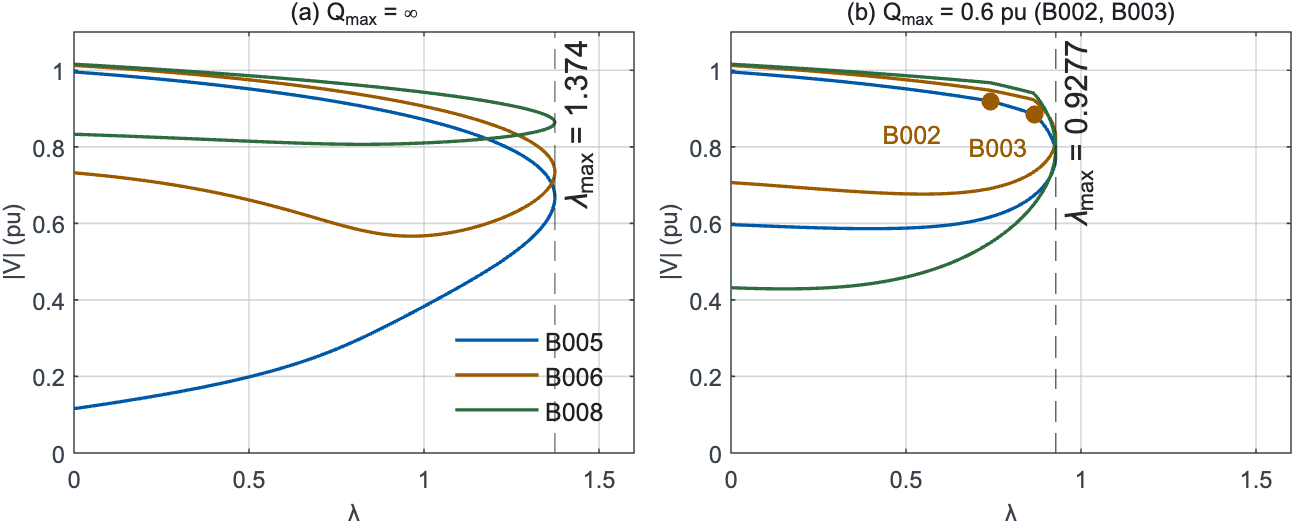
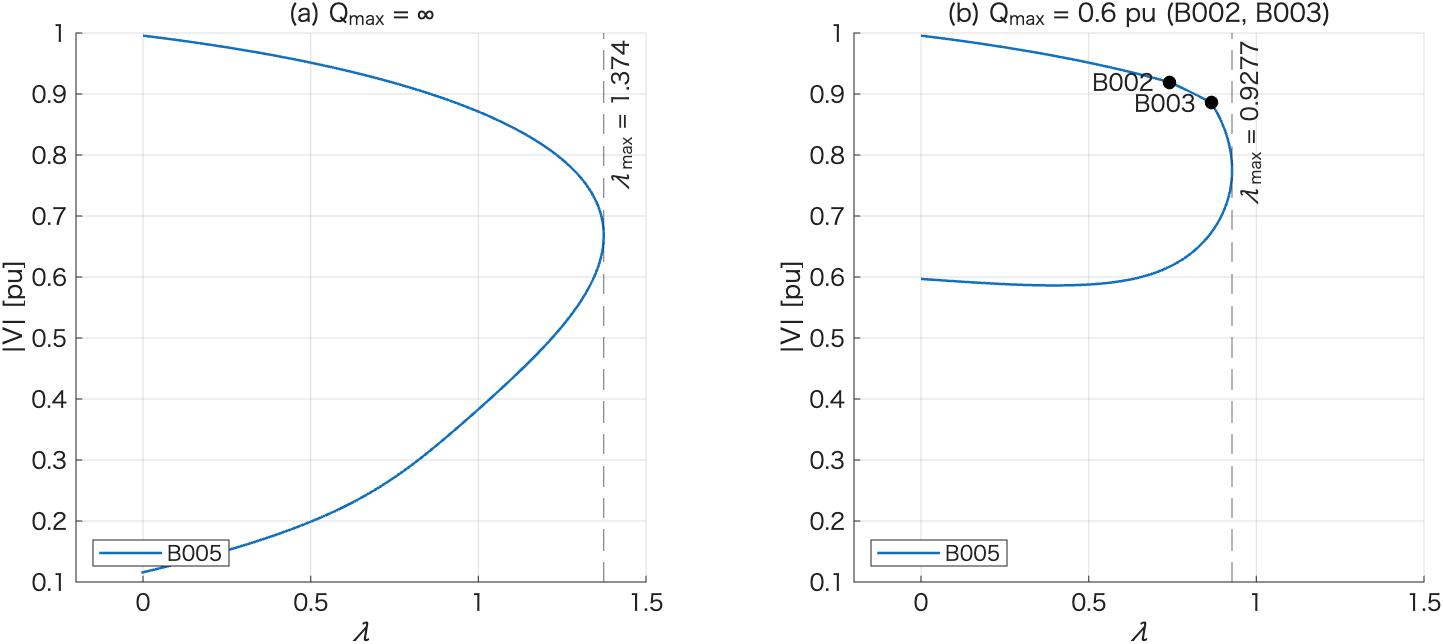
docs: draw only bus B005 in the Part 7 Q-limit PV curves

diff --git a/lecture/part7-continuation-power-flow.html b/lecture/part7-continuation-power-flow.html
@@ -337,16 +337,32 @@ result.plot_pvcurve(Bus="B005");</code></pre>
 net.a_Bus{3}.a_Component{1}.tab_parameter.operation.Qmax = 0.6;
 result_Q = net.calculate_continuation_powerflow(LoadBus=["B005","B006","B008"], Limits="Q");
 result_Q.tab_switch</code></pre>
+          <p lang="en">The figure below puts the PV curve of bus 5 of both results side by side, each drawn by <code>plot_pvcurve(Bus="B005")</code> as in the previous section. The dots at the switches are added with <code>plot</code> and <code>text</code> from <code>result_Q.tab_switch</code>; its column <code>Step</code> is the index of the switch in <code>rv_lambda</code> and <code>cm_Vbus</code>.</p>
+          <p lang="ja">下の図は、2 つの結果の母線 5 の PV カーブを並べたものです。どちらも前の節と同じく <code>plot_pvcurve(Bus="B005")</code> で描きました。切り替わる点の黒丸は、<code>result_Q.tab_switch</code> をもとに <code>plot</code> と <code>text</code> で描き足しています。<code>tab_switch</code> の列 <code>Step</code> は、<code>rv_lambda</code> と <code>cm_Vbus</code> の中でのその点の番号です。</p>
+          <pre class="lec-cmd"><code>tiledlayout(1, 2);
+ax1 = nexttile;
+result.plot_pvcurve(Bus="B005", Parent=ax1);
+title(ax1, "(a) Q_{max} = \infty");
+ax2 = nexttile;
+result_Q.plot_pvcurve(Bus="B005", Parent=ax2);
+title(ax2, "(b) Q_{max} = 0.6 pu (B002, B003)");
+sw = result_Q.tab_switch;
+V5 = abs(result_Q.cm_Vbus(result_Q.sv_bus == "B005", sw.Step));
+hold(ax2, "on");
+plot(ax2, sw.lambda, V5, "ko", MarkerFaceColor="k", HandleVisibility="off");
+text(ax2, sw.lambda, V5, sw.Bus + "  ", HorizontalAlignment="right");
+linkaxes([ax1 ax2]);
+xlim(ax1, [-0.2 1.5]);</code></pre>
 
           <figure class="lec-figure is-scroll" style="--lec-min-w: 560px;">
             <div class="lec-scroll">
-              <img src="../images/lecture/part7/q-limits.png" alt="PV curves of the load buses of the IEEE 9-bus system drawn by GUILDA's plot_pvcurve, (a) without and (b) with reactive power limits of 0.6 pu on the generators of buses 2 and 3: with the limits the curves bend where B002 and B003 switch to PQ, and the nose falls from lambda = 1.374 to 0.928" width="1294" height="523">
+              <img src="../images/lecture/part7/q-limits.png" alt="PV curves of bus B005 of the IEEE 9-bus system drawn by GUILDA's plot_pvcurve, (a) without and (b) with reactive power limits of 0.6 pu on the generators of buses 2 and 3: in (b) black dots mark where B002 and B003 switch to PQ, at lambda = 0.741 and 0.866, and the nose moves from lambda = 1.374 at 0.669 pu to lambda = 0.928 at 0.778 pu" width="1443" height="644">
             </div>
-            <figcaption lang="en">PV curves of the load buses of the IEEE 9-bus system, each panel drawn by <code>plot_pvcurve</code>: (a) without limits, (b) with the reactive power of the generators at buses 2 and 3 limited to 0.6 pu (an assumed value for this example; the slack generator at bus 1 is not limited). At the dots B002 and B003 on the curve of bus 5, the generator reaches its limit and its bus switches from PV to PQ (<code>result_Q.tab_switch</code>); the curves bend there, and the nose moves from <span class="lec-math-inline" data-tex="\lambda = 1.374"></span> (2.374 times the load) to <span class="lec-math-inline" data-tex="\lambda = 0.928"></span> (1.928 times).</figcaption>
-            <figcaption lang="ja">IEEE 9 母線系統の負荷母線の PV カーブで、各パネルを <code>plot_pvcurve</code> で描きました。(a) は上限なし、(b) は母線 2 と 3 の発電機の無効電力に上限 0.6 pu を設けた場合です（この例のために仮に決めた値です。母線 1 の slack の発電機には上限を設けていません）。母線 5 の曲線の上の点 B002・B003 で発電機が上限に達し、その母線が PV から PQ に変わります（<code>result_Q.tab_switch</code>）。曲線はそこで折れ曲がり、ノーズ点は <span class="lec-math-inline" data-tex="\lambda = 1.374"></span>（負荷 2.374 倍）から <span class="lec-math-inline" data-tex="\lambda = 0.928"></span>（1.928 倍）に下がります。</figcaption>
+            <figcaption lang="en">PV curves of bus 5 of the IEEE 9-bus system (loads of buses 5, 6 and 8 scaled together), drawn by the commands above: (a) without limits, (b) with the reactive power of the generators at buses 2 and 3 limited to 0.6 pu (an assumed value for this example; the slack generator at bus 1 is not limited). At the dots B002 (<span class="lec-math-inline" data-tex="\lambda = 0.741"></span>) and B003 (<span class="lec-math-inline" data-tex="\lambda = 0.866"></span>), the generator reaches its limit and its bus switches from PV to PQ (<code>result_Q.tab_switch</code>). The nose moves from <span class="lec-math-inline" data-tex="\lambda = 1.374"></span> (2.374 times the load) to <span class="lec-math-inline" data-tex="\lambda = 0.928"></span> (1.928 times).</figcaption>
+            <figcaption lang="ja">IEEE 9 母線系統の母線 5 の PV カーブ（母線 5・6・8 の負荷を同じ倍率で増加）で、上のコマンドで描きました。(a) は上限なし、(b) は母線 2 と 3 の発電機の無効電力に上限 0.6 pu を設けた場合です（この例のために仮に決めた値です。母線 1 の slack の発電機には上限を設けていません）。黒丸 B002（<span class="lec-math-inline" data-tex="\lambda = 0.741"></span>）と B003（<span class="lec-math-inline" data-tex="\lambda = 0.866"></span>）で発電機が上限に達し、その母線が PV から PQ に変わります（<code>result_Q.tab_switch</code>）。ノーズ点は <span class="lec-math-inline" data-tex="\lambda = 1.374"></span>（負荷 2.374 倍）から <span class="lec-math-inline" data-tex="\lambda = 0.928"></span>（1.928 倍）に下がります。</figcaption>
           </figure>
-          <p lang="en">The curve with limits follows the one without limits up to the first switch, and the difference is invisible until then. A PV curve that ignores the reactive power limits therefore gives a larger margin than the system has. In GUILDA, the option <code>Limits="Q"</code> of the continuation power flow applies the limits <code>Qmin</code> and <code>Qmax</code> set in the operating limits of the generators, and <code>tab_switch</code> of the result lists where each PV bus switched to PQ.</p>
-          <p lang="ja">上限のある曲線は、最初に切り替わる点までは上限のない曲線と重なっていて、それまでは違いが見えません。そのため、無効電力の限界を考えない PV カーブは、余裕を実際より大きく見積もります。GUILDA では、連続潮流計算のオプション <code>Limits="Q"</code> を指定すると、発電機の運転制約に設定した <code>Qmin</code>・<code>Qmax</code> を守りながら経路をたどり、結果の <code>tab_switch</code> に PV 母線が PQ 母線に切り替わった点の一覧が入ります。</p>
+          <p lang="en">The curve with limits follows the one without limits up to the first switch, and the difference is invisible until then. A PV curve that ignores the reactive power limits therefore gives a larger margin than the system has. At each dot the slope of the curve changes; after the switch of B003, the voltage of bus 5 falls steeply to the nose. The voltage of bus 5 at the nose is 0.778 pu with the limits and 0.669 pu without them: with the limits the nose comes at a smaller λ and a higher voltage, so a voltage that still looks acceptable does not show that the margin is large. In GUILDA, the option <code>Limits="Q"</code> of the continuation power flow applies the limits <code>Qmin</code> and <code>Qmax</code> set in the operating limits of the generators, and <code>tab_switch</code> of the result lists where each PV bus switched to PQ.</p>
+          <p lang="ja">上限のある曲線は、最初に切り替わる点までは上限のない曲線と重なっていて、それまでは違いが見えません。そのため、無効電力の限界を考えない PV カーブは、余裕を実際より大きく見積もります。黒丸のところで曲線の傾きが変わり、B003 が切り替わったあとは母線 5 の電圧がノーズ点まで急に下がります。ノーズ点での母線 5 の電圧は、上限なしで 0.669 pu、上限ありで 0.778 pu です。上限があるとノーズ点はより小さい λ の、より高い電圧のところに来ます。電圧がまだ十分に高く見えても、余裕が大きいとは限りません。GUILDA では、連続潮流計算のオプション <code>Limits="Q"</code> を指定すると、発電機の運転制約に設定した <code>Qmin</code>・<code>Qmax</code> を守りながら経路をたどり、結果の <code>tab_switch</code> に PV 母線が PQ 母線に切り替わった点の一覧が入ります。</p>
           <p lang="en">The reactive power of each generator along the path is drawn by <code>plot_generator</code>: each line is the Q of one generator against <span class="lec-math-inline" data-tex="\lambda"></span>, and dotted lines mark the switches of <code>result_Q.tab_switch</code>. With <code>Quantity="Qmargin"</code> it draws the distance to the nearer limit, which reaches 0 at the switch. The samples of these plots are the steps of the path, so when a network diagram of the same result is linked to the PV curves, the marker on the curves moves with the diagram.</p>
           <p lang="ja">経路に沿った各発電機の無効電力は <code>plot_generator</code> で描けます。1 本の線が 1 台の発電機の Q を <span class="lec-math-inline" data-tex="\lambda"></span> に対して表し、<code>result_Q.tab_switch</code> の切り替えを点線で示します。<code>Quantity="Qmargin"</code> では近い方の上限・下限までの距離を描き、切り替わる点で 0 になります。これらの図の標本は経路のステップなので、同じ結果のネットワーク図を PV カーブとリンクすると、曲線の上のマーカーが図と一緒に動きます。</p>
           <pre class="lec-cmd"><code>result_Q.plot_generator(Quantity="Q");
